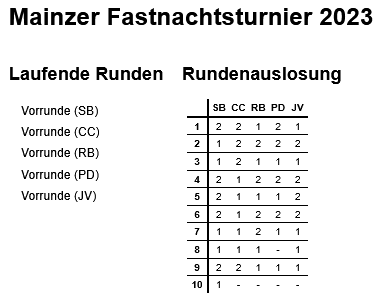
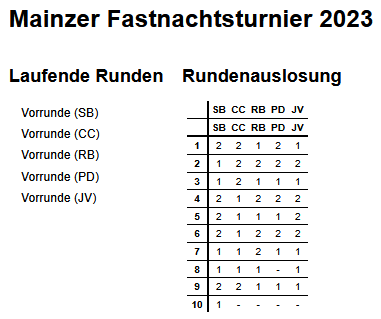
kept section ids in heat overview

diff --git a/main/pydanceweb/models.py b/main/pydanceweb/models.py
@@ -642,16 +642,17 @@ class HeatTables:
 
 
     def merge_running():
-        # TODO: add section_ids as column group
+        # TODO: split by section groups
         current_rounds = [dance_round for dance_round in DanceRounds.get_running() if not dance_round.is_final]
         if len(current_rounds) < 1:
             return
-        merged_table = HeatTable().to_frame()
-        for dance_round in current_rounds:
+        for i, dance_round in enumerate(current_rounds):
             table = HeatTables.get(dance_round.section_id, dance_round.id).to_frame()
-            if len(dance_round.dances) > 1:
-                table.columns = [f'{dance_round.section_id}_{dance.id}' for dance in dance_round.dances]
-            merged_table = merged_table.join(table, how="outer")
+            table.columns = pd.MultiIndex.from_product([[dance_round.section_id], [dance.id for dance in dance_round.dances]])
+            if i == 0:
+                merged_table = table
+            else:
+                merged_table = merged_table.join(table, how="outer")
         return merged_table.astype(object).fillna('-')
 
     def save(heat_table, section_id, round_id):
